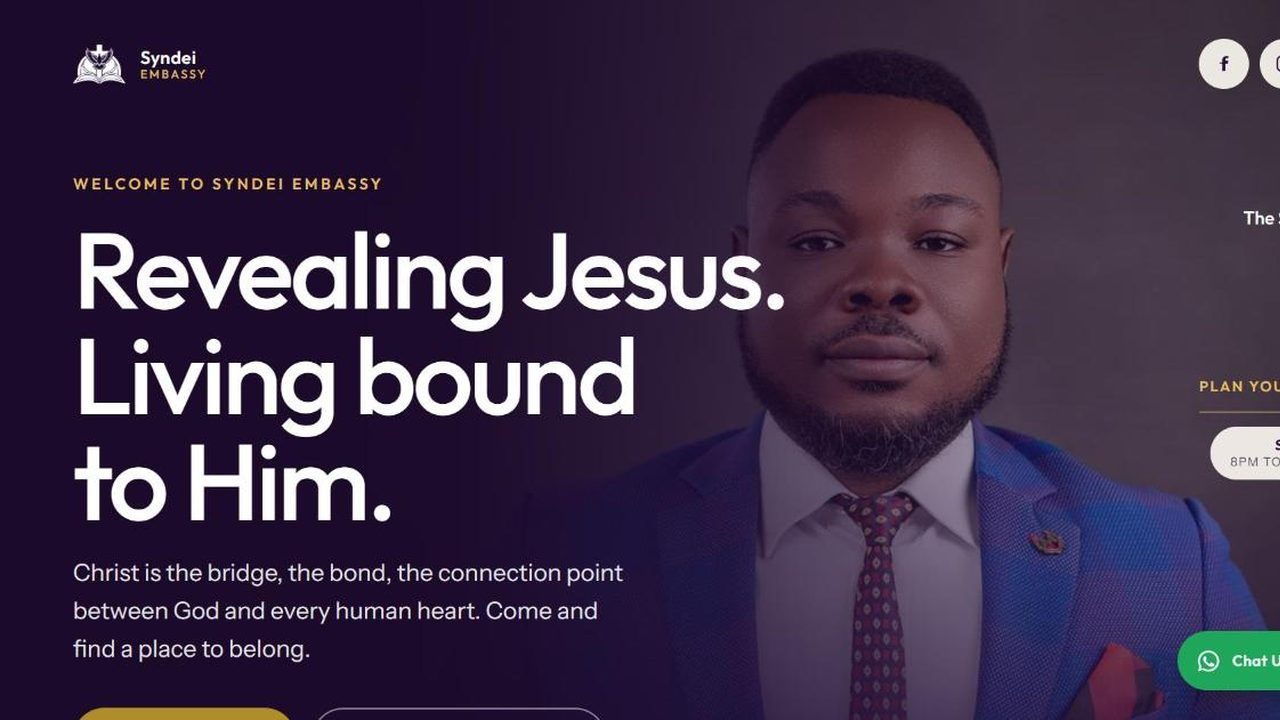
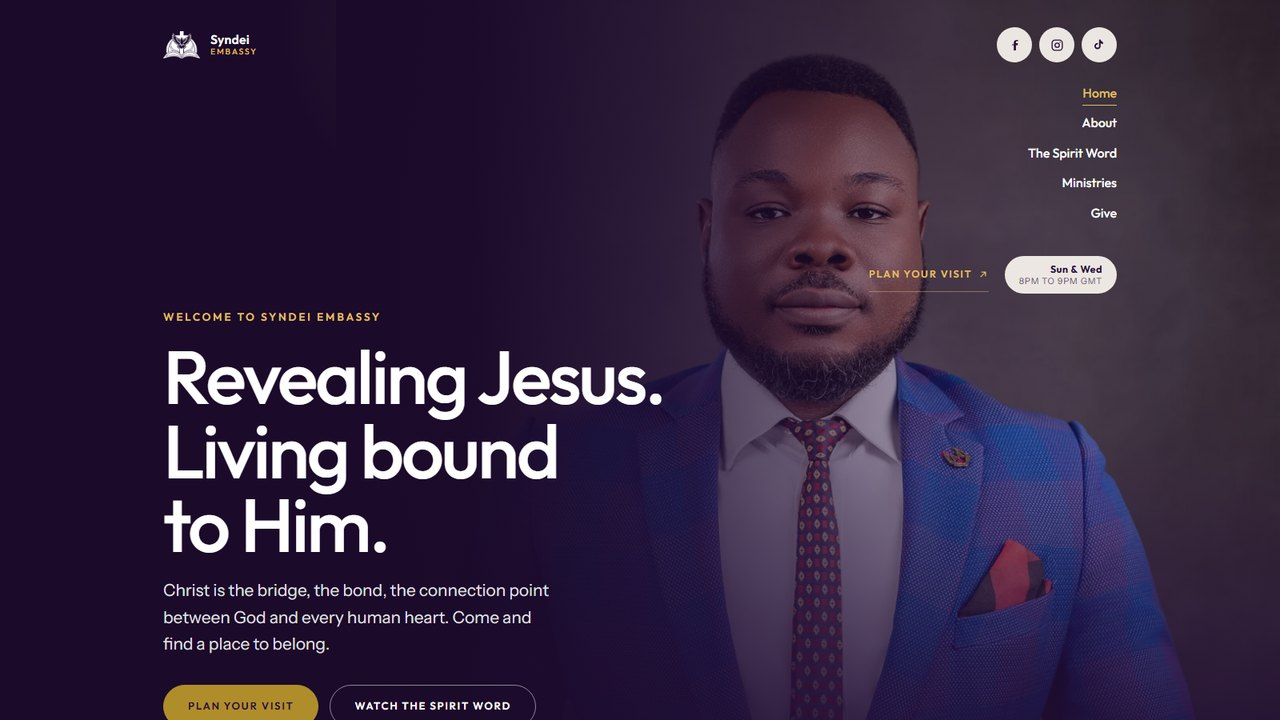
Mavel's Corner and Syndei Embassy: block 08 for both
Every case study now carries six captures. Block 08 is complete across
all four, which was the single biggest blocker in Phase 2.

Mavel's Corner had no captures at all. The hero was the brand mark on
a plate because mavelscorner.blog would not render, and that defect is
now closed: full homepage, homepage on a phone, the blog index on both,
and a post on both. The hero and card srcset are regenerated from the
real homepage, so the portfolio card stops showing a logo where every
other card shows a site.

Syndei Embassy had two captures taken with browser chrome. Replaced
with six: the full homepage, the homepage on a phone, ministries on
both, the Spirit Word podcast page and the about timeline. The set is
chosen around the one question 10.1 says the page exists to answer,
which here is whether a first-time visitor would belong.

Four superseded files removed after checking references. mavels-corner-640
is still referenced by the card srcset and stays.

QA passes, 6,880 contrast pairs.

Claude-Session: https://claude.ai/code/session_01Qdrer2qq7nNfJBYZv1UTqo

diff --git a/src/content/work/syndei-embassy.md b/src/content/work/syndei-embassy.md
@@ -16,16 +16,40 @@ lead: >
 shots:
   - src: /img/syndei-embassy-full-960.webp
     w: 960
-    h: 4159
+    h: 5144
     device: full
-    alt: The complete Syndei Embassy homepage, from the hero through service times, ministries, prayer, giving and the footer
-    caption: The full homepage, scrollable. Navigation runs down the right edge, leaving the full width to the display type and the portrait.
-  - src: /img/syndei-embassy-mobile-780.webp
+    alt: The complete Syndei Embassy homepage, from the pastor portrait hero through service times, the welcome, the vision band, the podcast, four ministries, next steps, prayer, giving and a closing invitation
+    caption: The full homepage. Every section answers either whether you would belong here or how to turn up.
+  - src: /img/syndei-embassy-home-mobile-780.webp
     w: 780
-    h: 1689
+    h: 1688
     device: mobile
-    alt: The Syndei Embassy homepage on a phone, with the WhatsApp control pinned bottom right
-    caption: Mobile. The right rail collapses to a single menu control and the WhatsApp button stays pinned, where it matters most.
+    alt: The homepage on a phone, the pastor portrait above the headline Revealing Jesus, Living bound to Him, with Plan Your Visit as the first action
+    caption: On a phone. Plan Your Visit is the first thing a hand reaches, and a WhatsApp control stays within thumb reach throughout.
+  - src: /img/syndei-embassy-ministries-1200.webp
+    w: 1200
+    h: 750
+    device: desktop
+    alt: The ministries page, Find your place among us over a photograph of the congregation, above a plan-your-visit panel covering when, where, what to expect and joining remotely
+    caption: Ministries answers the question underneath the question. When, where, what to expect, and what to do if you cannot come in person.
+  - src: /img/syndei-embassy-ministries-mobile-780.webp
+    w: 780
+    h: 1688
+    device: mobile
+    alt: The ministries page on a phone, the congregation photograph behind the heading with Plan Your Visit and Request Prayer stacked full width
+    caption: The same two actions on a phone, both full width.
+  - src: /img/syndei-embassy-spirit-word-1200.webp
+    w: 1200
+    h: 750
+    device: desktop
+    alt: The Spirit Word page, Revealing Christ, Restoring Hope over an open Bible, with Spotify, Apple Podcasts, Audible and Amazon Music buttons
+    caption: The teaching podcast, with the platforms stated plainly. A visitor can hear the church before deciding to visit it.
+  - src: /img/syndei-embassy-about-1200.webp
+    w: 1200
+    h: 750
+    device: desktop
+    alt: The about page story section, From a fast to an Embassy, a dated timeline beginning January 2015 with photographs of the early congregation
+    caption: The story as a dated timeline. A church that can show where it came from is easier to trust than one that only states what it believes.
 decisions:
   - title: Service times are a destination, not a footnote
     body: >
@@ -45,7 +69,6 @@ pending:
   - "05 The challenge: what was in place before, and its cost"
   - "06 Strategy and direction: the central insight, and what you rejected"
   - "07 Identity and design system: logo rules, palette values, type specimen"
-  - "08 The build: four or more screenshots. Full-page desktop, mobile, two interior pages."
   - "10 Outcome: what changed, evidenced only"
   - "11 Client quote: approved, verbatim"
 ---

diff --git a/src/content/work/mavels-corner.md b/src/content/work/mavels-corner.md
@@ -8,11 +8,48 @@ live: https://mavelscorner.blog
 inHouse: true
 order: 4
 hero: /img/mavels-corner-1280.webp
-heroAlt: The Mavel's Corner brand mark
+heroAlt: The Mavel's Corner homepage, Welcome to Mavel's Corner over a deep teal ground patterned with small crosses
 lead: >
   Mavel's Corner is a faith-lifestyle publication. Unlike the other projects here it is an editorial
   problem rather than a visual one. The work was a voice that could carry weekly writing
   without drifting, and a structure that made publishing a routine rather than a decision.
+shots:
+  - src: /img/mavels-corner-full-960.webp
+    w: 960
+    h: 2767
+    device: full
+    alt: The complete Mavel's Corner homepage, from the welcome through a scripture band, four reasons the publication exists, editor's picks, recent posts and a closing promise to the reader
+    caption: The full homepage. A scripture band, then why the publication exists, then the writing itself.
+  - src: /img/mavels-corner-home-mobile-780.webp
+    w: 780
+    h: 1688
+    device: mobile
+    alt: The Mavel's Corner homepage on a phone, the masthead and platform row above the welcome, the positioning line and two calls to action
+    caption: On a phone. Masthead, the three words that set the boundary, then read or ask for prayer.
+  - src: /img/mavels-corner-blog-1200.webp
+    w: 1200
+    h: 750
+    device: desktop
+    alt: The blog index, Words for the Journey above a start-here row of seven numbered posts each carrying its scripture reference
+    caption: The blog index opens with seven posts to start on. A new reader is given a route in rather than a reverse chronological list.
+  - src: /img/mavels-corner-blog-mobile-780.webp
+    w: 780
+    h: 1688
+    device: mobile
+    alt: The blog index on a phone, the heading and the numbered start-here posts stacked full width
+    caption: The same route in, on a phone.
+  - src: /img/mavels-corner-post-1200.webp
+    w: 1200
+    h: 750
+    device: desktop
+    alt: A single post, You Are Not in That Fire Alone, a dark masthead band above body text set on cream, with a floating listen control
+    caption: A post. Dark masthead, then cream for the reading itself, and a listen control that follows the reader down the page.
+  - src: /img/mavels-corner-post-mobile-780.webp
+    w: 780
+    h: 1688
+    device: mobile
+    alt: The same post on a phone, title and standfirst on the dark band with the opening paragraphs below on cream
+    caption: Reading on a phone, which is where most of this writing is read.
 decisions:
   - title: A positioning line that sets the editorial boundary
     body: >
@@ -33,7 +70,6 @@ pending:
   - "05 The challenge: what was in place before, and its cost"
   - "06 Strategy and direction: the voice work, and what you rejected"
   - "07 Identity and design system: palette values, type specimen"
-  - "01/08 Screenshots: mavelscorner.blog would not render for capture. The card and hero show the brand mark on a plate. Needs full-page desktop, mobile, an article page, the prayer form."
   - "10 Outcome: publishing rhythm, evidenced only"
   - "11 Client quote: the existing testimonial, trimmed and approved"
 ---
